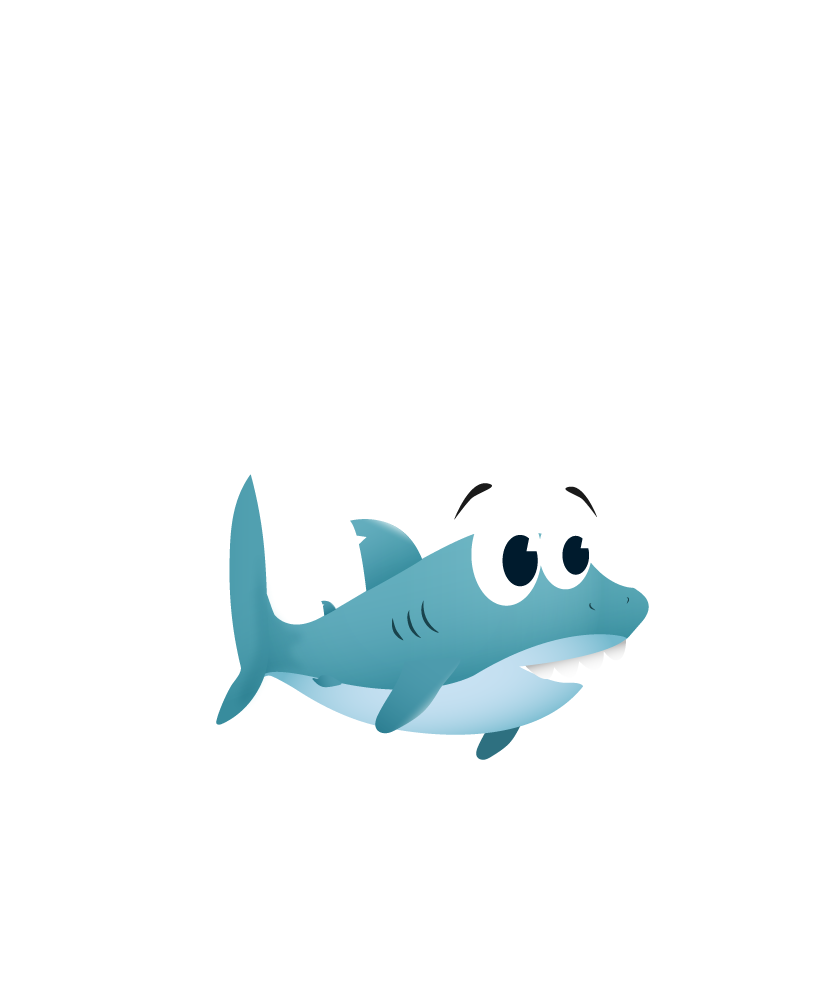
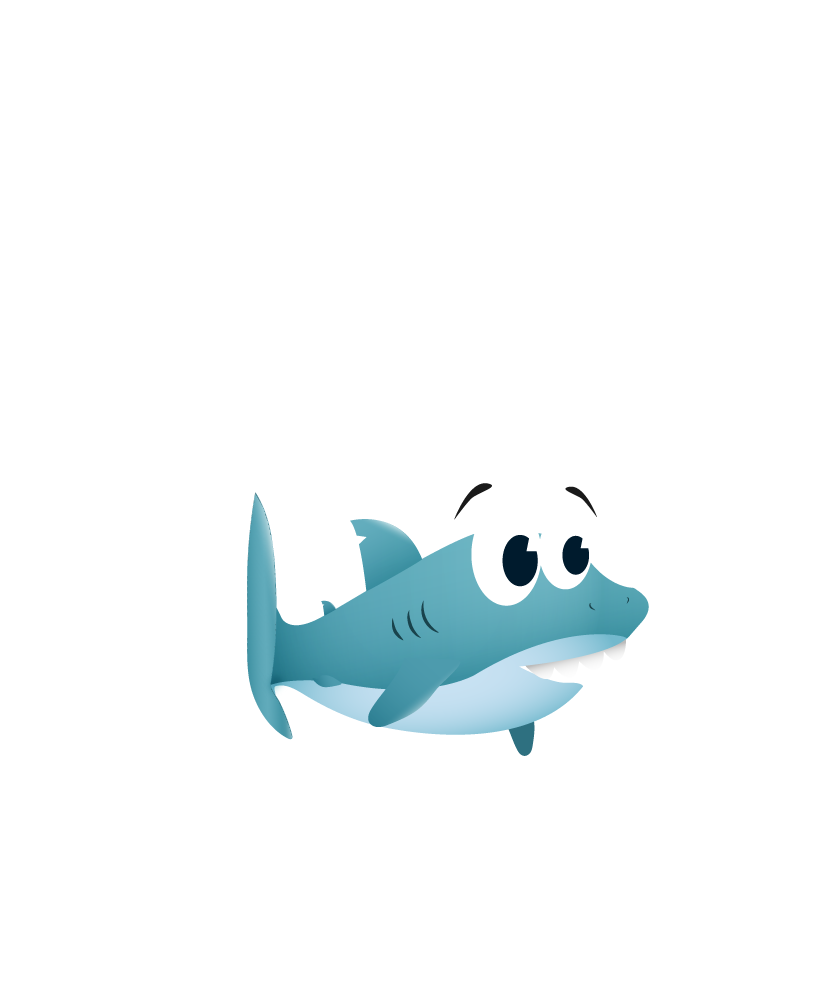
added animations

Changed region(s): [[0.2454, 0.4645, 0.3988, 0.7433], [0.4294, 0.6813, 0.5521, 0.7433], [0.5828, 0.7123, 0.6748, 0.7742]]

diff --git a/Game/Movable-Object.js b/Game/Movable-Object.js
@@ -1,8 +1,12 @@
 export default class MovableObject {
-    x = 0;
-    y = 0;
     width = 150;
     height = 250;
+    x = 0;
+    y = 0;
+    currentAnimationFrame = 0
+    currentAnimationTotalFrames = 0
+    currentAnimationPath = ''
+
 
     loadImage(path) {
         this.img = new Image();
@@ -21,6 +25,24 @@ export default class MovableObject {
     moveLeft() {
         console.log('Moving left');
     };
+
+    playAnimation(path, frames) {
+        this.currentAnimationPath = path
+
+        this.currentAnimationFrame = 0
+        this.currentAnimationTotalFrames = frames
+
+        let self = this
+
+        setInterval(function() {
+            if(self.currentAnimationTotalFrames > this.currentAnimationFrame) {
+                this.currentAnimationFrame += 1
+            } else {
+                this.currentAnimationFrame = 1
+            }
+            self.img.src = path + this.currentAnimationFrame + '.png'
+        },150)
+    }
 
     /**adjust image width to original image aspect ratios (based on this.height) */
     adjustImageWidth(img) {

diff --git a/Game/Entities/Character.js b/Game/Entities/Character.js
@@ -1,3 +1,4 @@
+import Game from "../Game.js";
 import MovableObject from "../Movable-Object.js";
 
 export default class Character extends MovableObject {
@@ -9,6 +10,13 @@ export default class Character extends MovableObject {
     constructor() {
         super();
 
+        this.game = new Game()
+
         this.loadImage('../assets/sharkie/swim/1.png');
+        this.playAnimation('../assets/sharkie/swim/', 5)
     };
+
+    update() {
+        this.y = Math.cos(this.game.time.elapsed / 1000) * 5
+    }
 };

diff --git a/Game/assets.js b/Game/assets.js
@@ -1,0 +1,18 @@
+export default [
+    {
+        name: 'shark-swim',
+        type: 'animation',
+        frames: 5,
+        paths: [
+            '../assets/sharkie/swim/'
+        ]
+    },
+    {
+        name: 'shark-slap',
+        type: 'animation',
+        frames: 8,
+        paths: [
+            '../assets/sharkie/attack/fin-slap'
+        ]
+    }
+]

diff --git a/Game/Game.js b/Game/Game.js
@@ -25,9 +25,6 @@ export default class Game {
     update() {
         if (this.world) {
             this.world.update();
-
-            /**just for testing */
-            this.world.character.y = Math.cos(this.time.elapsed / 1000) * 5;
         };
 
         window.requestAnimationFrame(() => {

diff --git a/Game/World.js b/Game/World.js
@@ -33,5 +33,9 @@ export default class World {
         this.game.drawer.drawAll(this.background);
         this.game.drawer.drawAll(this.enemies);
         this.game.drawer.draw(this.character);
+
+        if(this.character) {
+            this.character.update()
+        }
     };
 };

diff --git a/Game/Utils/LoadingerManager.js b/Game/Utils/LoadingerManager.js
@@ -1,0 +1,6 @@
+export default class LoadingerManager {
+
+    constructor() {
+        
+    }
+}
